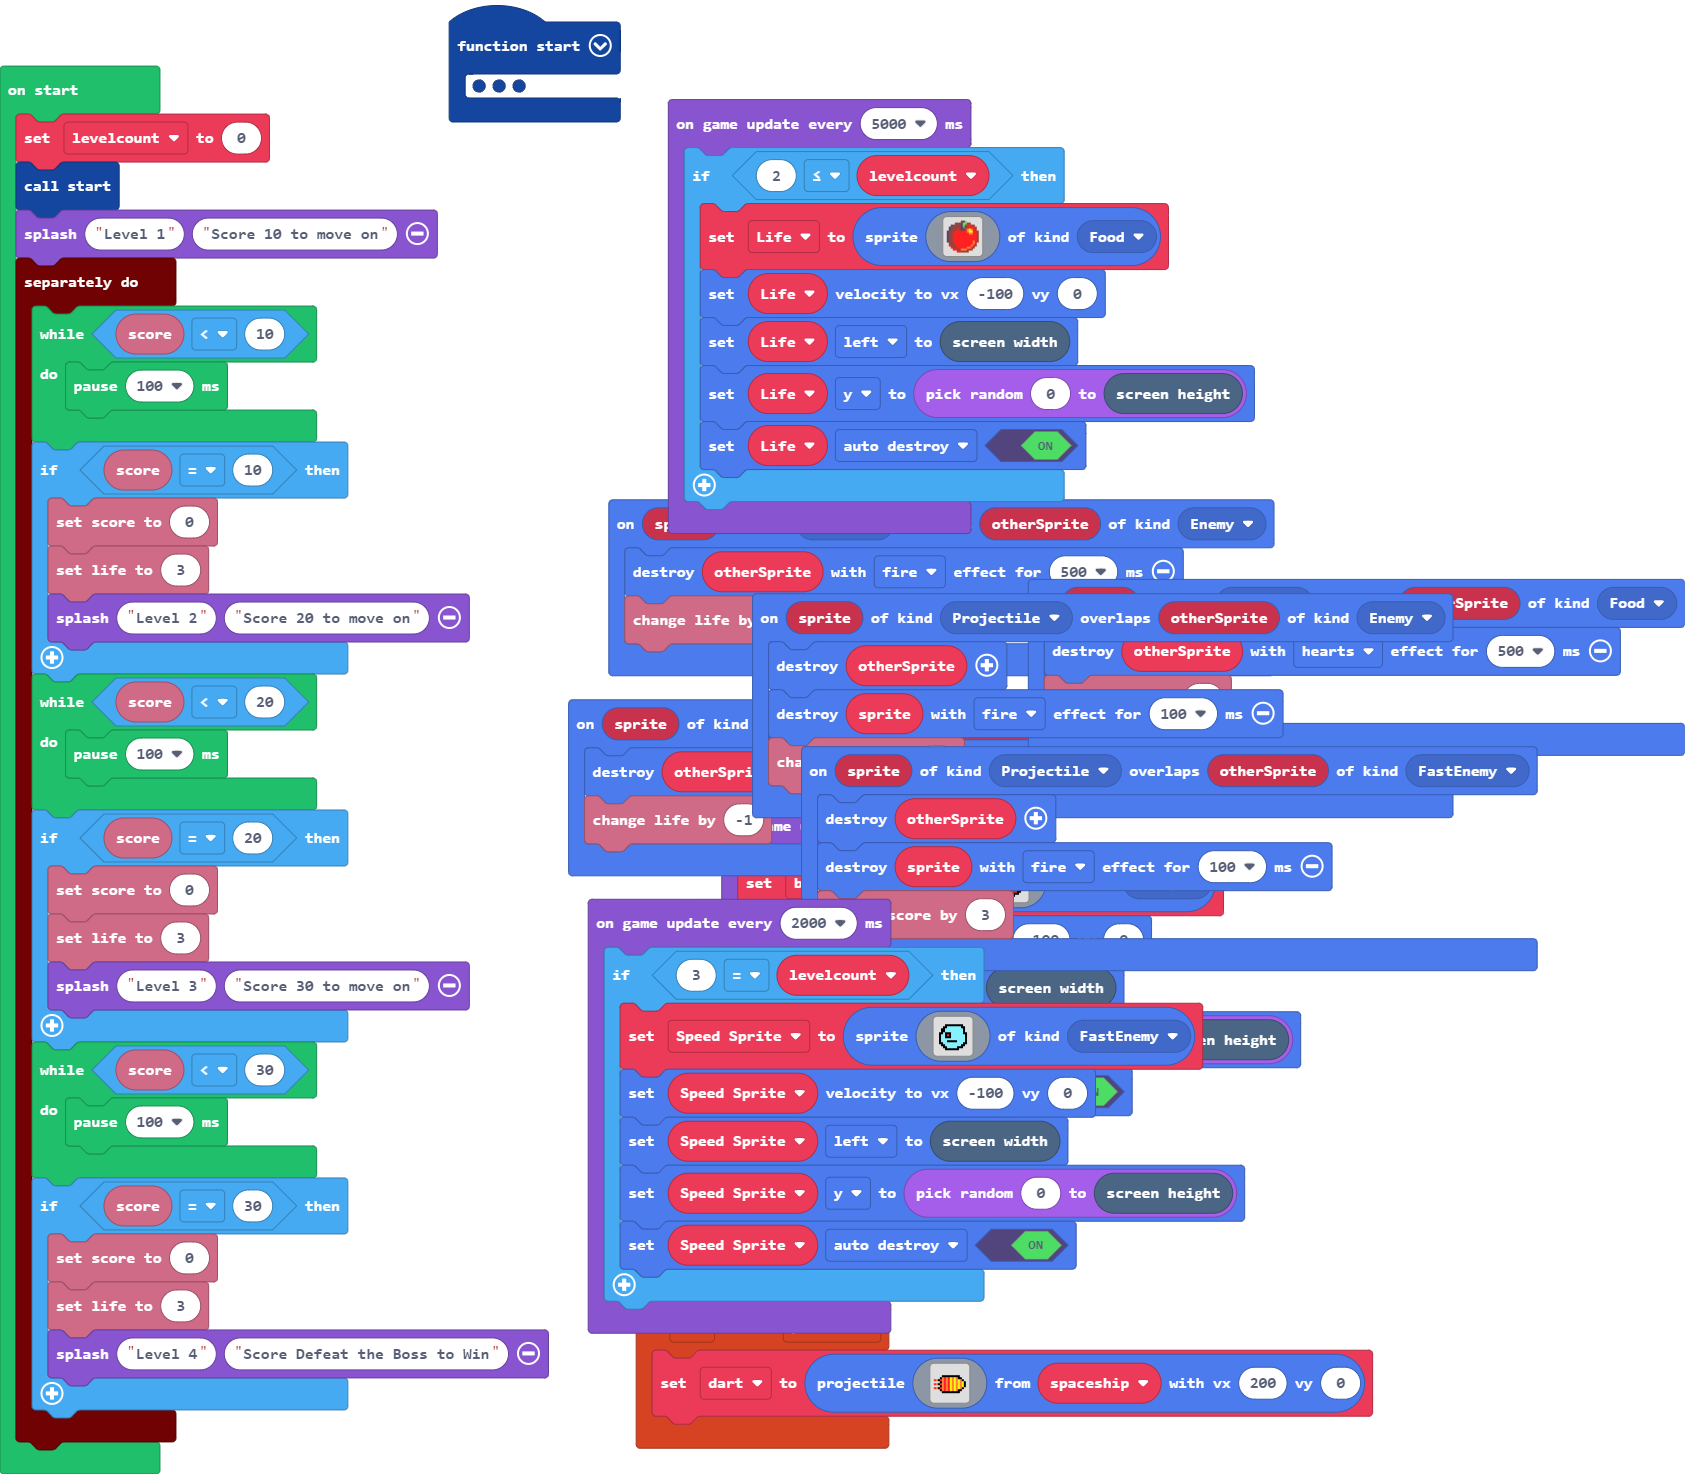
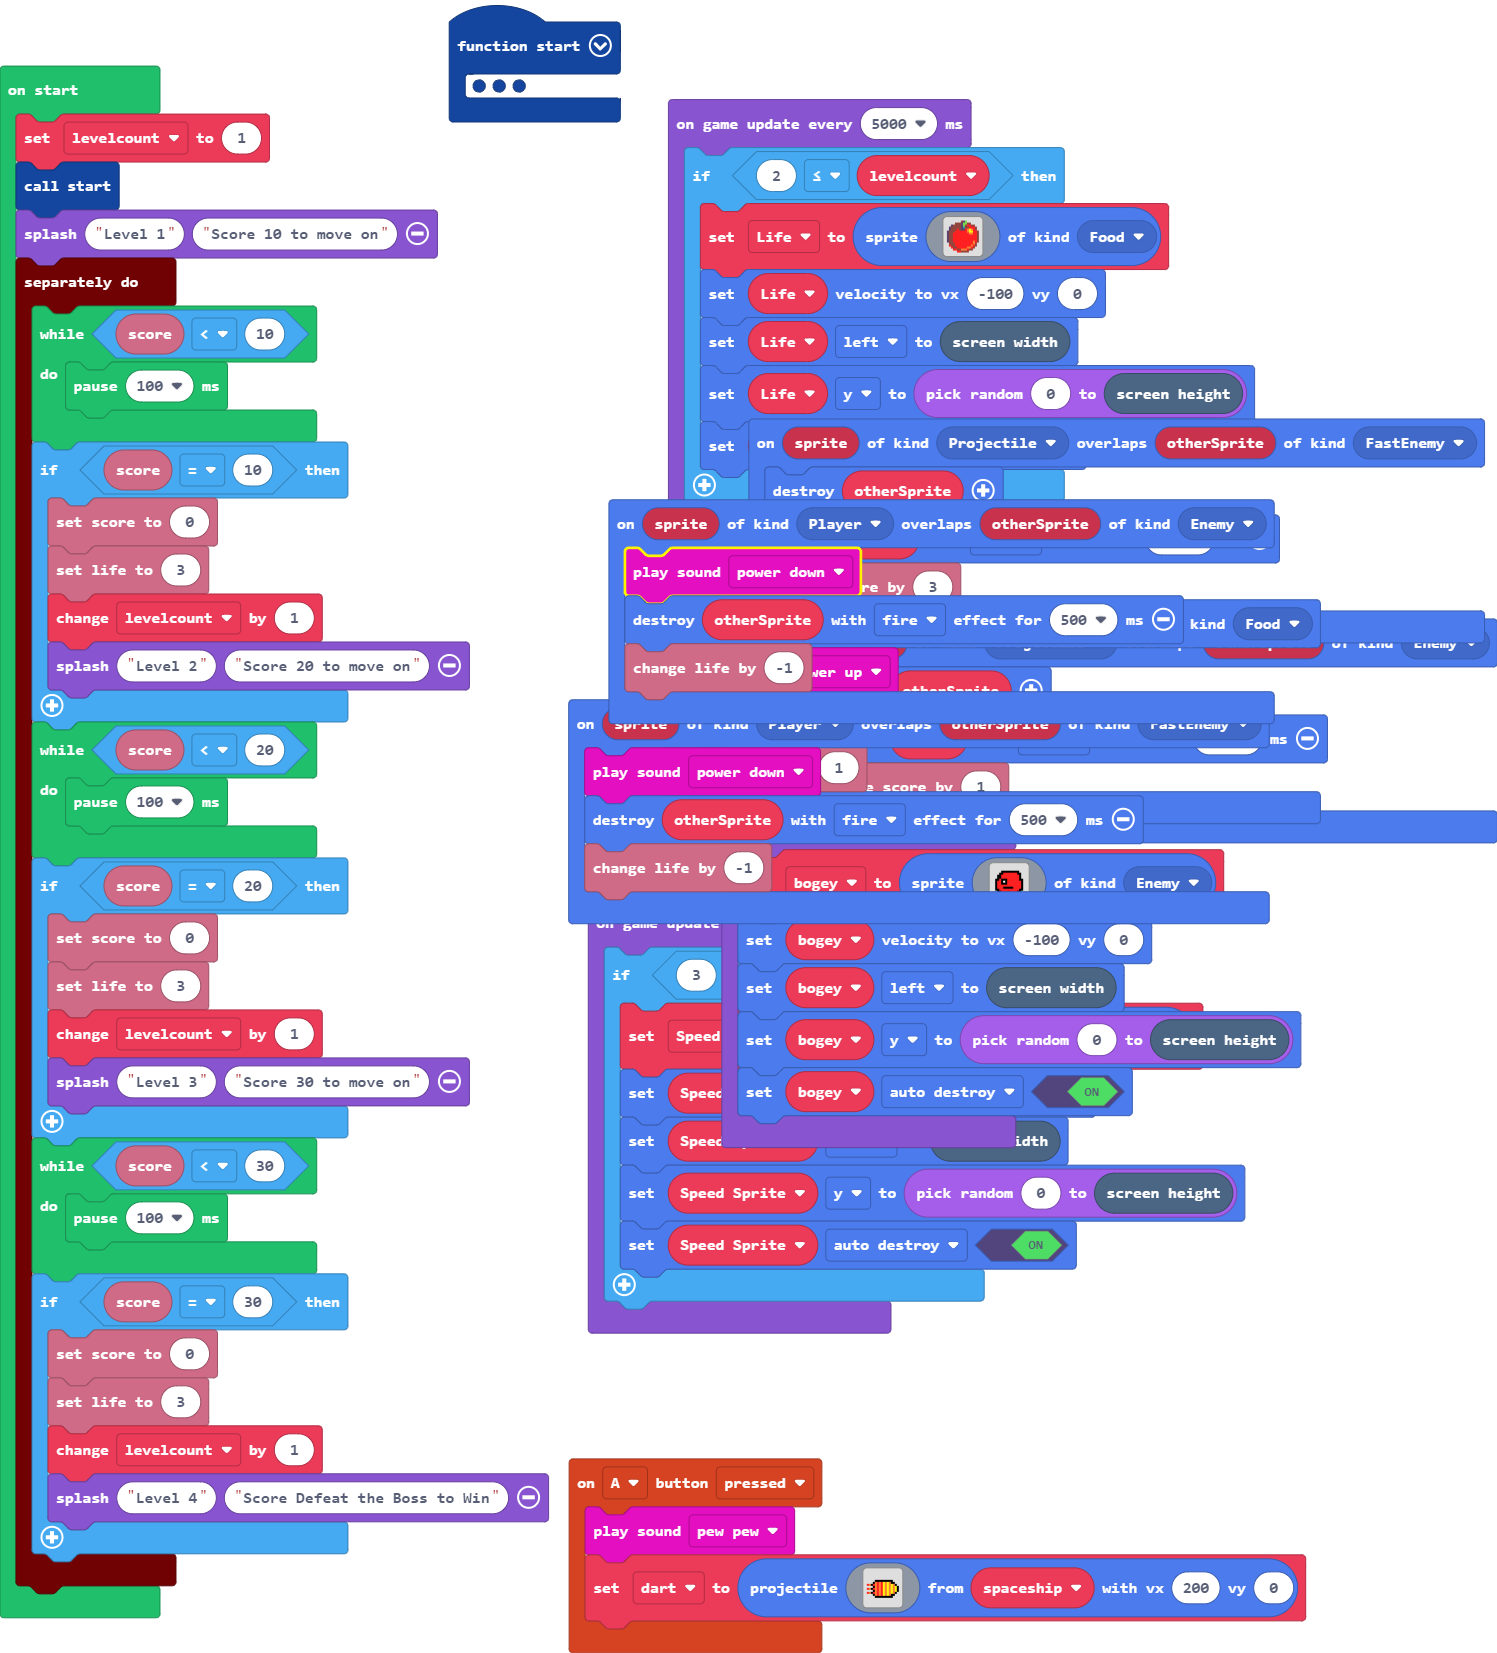
Added Sound

diff --git a/main.ts b/main.ts
@@ -2,6 +2,7 @@ namespace SpriteKind {
     export const FastEnemy = SpriteKind.create()
 }
 controller.A.onEvent(ControllerButtonEvent.Pressed, function () {
+    music.pewPew.play()
     dart = sprites.createProjectileFromSprite(img`
         . . . . . . . . . . . . . . . . 
         . . . . . . . . . . . . . . . . 
@@ -27,10 +28,12 @@ sprites.onOverlap(SpriteKind.Projectile, SpriteKind.FastEnemy, function (sprite,
     info.changeScoreBy(3)
 })
 sprites.onOverlap(SpriteKind.Player, SpriteKind.FastEnemy, function (sprite, otherSprite) {
+    music.powerDown.play()
     otherSprite.destroy(effects.fire, 500)
     info.changeLifeBy(-1)
 })
 sprites.onOverlap(SpriteKind.Player, SpriteKind.Food, function (sprite, otherSprite) {
+    music.powerUp.play()
     otherSprite.destroy(effects.hearts, 500)
     info.changeLifeBy(1)
 })
@@ -63,6 +66,7 @@ sprites.onOverlap(SpriteKind.Projectile, SpriteKind.Enemy, function (sprite, oth
     info.changeScoreBy(1)
 })
 sprites.onOverlap(SpriteKind.Player, SpriteKind.Enemy, function (sprite, otherSprite) {
+    music.powerDown.play()
     otherSprite.destroy(effects.fire, 500)
     info.changeLifeBy(-1)
 })
@@ -71,7 +75,7 @@ let Speed_Sprite: Sprite = null
 let Life: Sprite = null
 let spaceship: Sprite = null
 let dart: Sprite = null
-let levelcount = 0
+let levelcount = 1
 start()
 game.splash("Level 1", "Score 10 to move on")
 timer.background(function () {
@@ -81,6 +85,7 @@ timer.background(function () {
     if (info.score() == 10) {
         info.setScore(0)
         info.setLife(3)
+        levelcount += 1
         game.splash("Level 2", "Score 20 to move on")
     }
     while (info.score() < 20) {
@@ -89,6 +94,7 @@ timer.background(function () {
     if (info.score() == 20) {
         info.setScore(0)
         info.setLife(3)
+        levelcount += 1
         game.splash("Level 3", "Score 30 to move on")
     }
     while (info.score() < 30) {
@@ -97,6 +103,7 @@ timer.background(function () {
     if (info.score() == 30) {
         info.setScore(0)
         info.setLife(3)
+        levelcount += 1
         game.splash("Level 4", "Score Defeat the Boss to Win")
     }
 })
@@ -146,7 +153,7 @@ game.onUpdateInterval(2000, function () {
             . . . . f f f f f f f . . . . . 
             . . . . . . . . . . . . . . . . 
             `, SpriteKind.FastEnemy)
-        Speed_Sprite.setVelocity(-100, 0)
+        Speed_Sprite.setVelocity(-200, 0)
         Speed_Sprite.left = scene.screenWidth()
         Speed_Sprite.y = randint(0, scene.screenHeight())
         Speed_Sprite.setFlag(SpriteFlag.AutoDestroy, true)
